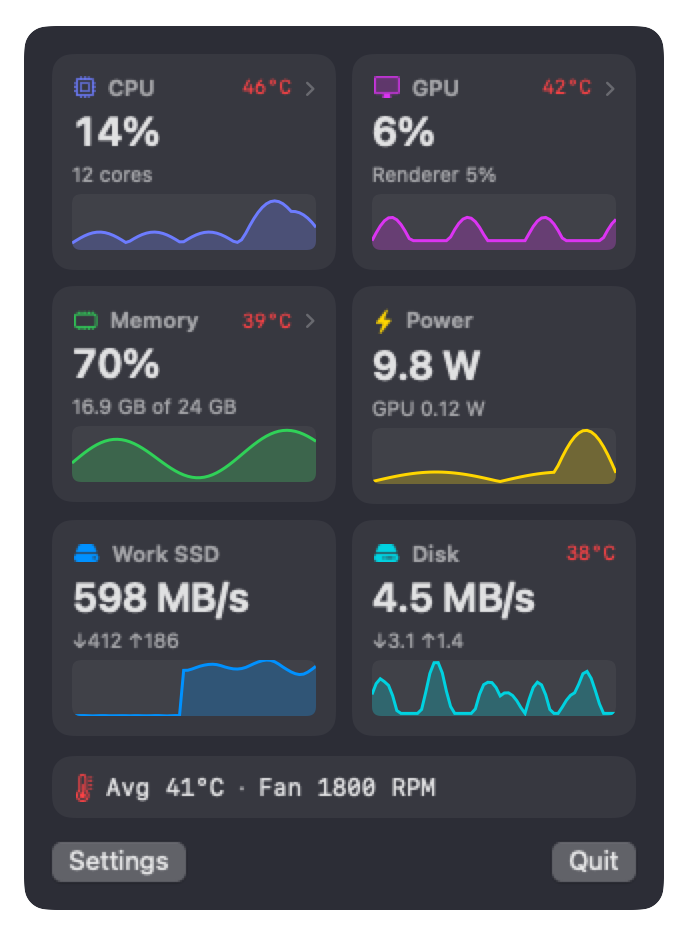
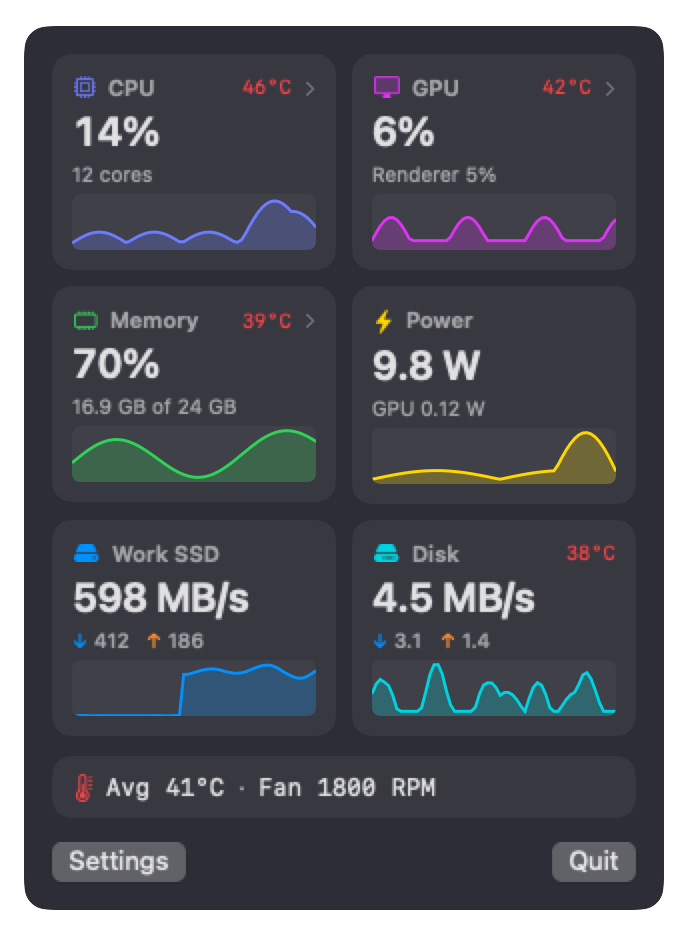
Graphs keep 10% headroom, GPU page shows power and memory, drive tiles use the menu bar's blue/orange arrows

diff --git a/Sources/SystemMonitorApp/PanelView.swift b/Sources/SystemMonitorApp/PanelView.swift
@@ -122,10 +122,10 @@ struct PanelView: View {
 
     private func percent(_ value: Double?) -> String { value.map { String(format: "%.0f%%", $0 * 100) } ?? "n/a" }
 
-    /// "↓412 ↑186": whole numbers once a speed is 10 MB/s or more.
-    private func rates(_ read: Double, _ write: Double) -> String {
+    /// Whole numbers once a speed is 10 MB/s or more ("412", "0.2").
+    private func rates(_ read: Double, _ write: Double) -> (read: String, write: String) {
         func f(_ v: Double) -> String { String(format: v >= 10 ? "%.0f" : "%.1f", v) }
-        return "↓\(f(read)) ↑\(f(write))"
+        return (f(read), f(write))
     }
 
     /// Read plus write as one number per sample, zoomed like the other tiles.
@@ -170,7 +170,7 @@ struct PanelView: View {
             return TileData(id: item, symbol: item.symbol,
                             name: drives.count == 1 ? first.label : "\(drives.count) drives", color: item.color,
                             big: Monitor.speed(monitor.externalRead + monitor.externalWrite),
-                            small: rates(monitor.externalRead, monitor.externalWrite),
+                            small: "", rates: rates(monitor.externalRead, monitor.externalWrite),
                             corner: nil, history: driveHistory(first))
         case .disk:
             guard let drive = monitor.internalDrive else {
@@ -179,7 +179,7 @@ struct PanelView: View {
             }
             return TileData(id: item, symbol: item.symbol, name: "Disk", color: item.color,
                             big: Monitor.speed(drive.readMBps + drive.writeMBps),
-                            small: rates(drive.readMBps, drive.writeMBps),
+                            small: "", rates: rates(drive.readMBps, drive.writeMBps),
                             corner: shownTemp(monitor.thermal?.ssdC), history: driveHistory(drive))
         case .thermal:
             return nil
@@ -339,6 +339,13 @@ struct PanelView: View {
                 box("Device", d?.device, monitor.gpuHistory)
                 box("Renderer", d?.renderer, monitor.gpuRendererHistory)
                 box("Tiler", d?.tiler, monitor.gpuTilerHistory)
+            }
+            LazyVGrid(columns: Array(repeating: GridItem(.flexible(), spacing: 5), count: 2), spacing: 5) {
+                MiniBox(title: "Power", value: monitor.power?.gpuWatts.map { String(format: "%.2f W", $0) } ?? "-",
+                        history: zoomed(monitor.gpuPowerHistory, minSpan: 0.5, floor: 0, padding: 0.1), color: .yellow)
+                MiniBox(title: "Memory", value: d?.memoryBytes.map { bytes(UInt64($0)) } ?? "-",
+                        history: zoomed(monitor.gpuMemoryHistory, minSpan: 50_000_000, floor: 0, padding: 10_000_000),
+                        color: .green)
             }
             if settings.showTemperatures, let sensors = monitor.thermal?.gpuSensorsC, !sensors.isEmpty {
                 HStack {

diff --git a/Sources/SystemMonitorApp/Monitor.swift b/Sources/SystemMonitorApp/Monitor.swift
@@ -20,6 +20,8 @@ struct MonitorState {
     var coreHistory: [[Double]] = []     // raw load per logical core, 0...1
     var gpuRendererHistory: [Double] = []
     var gpuTilerHistory: [Double] = []
+    var gpuPowerHistory: [Double] = []     // watts
+    var gpuMemoryHistory: [Double] = []    // bytes
     var gpuSensorHistory: [[Double]] = []   // one series per GPU temperature sensor, degrees C
     var allDrives: [DriveRate] = []
     var ramHistory: [Double] = []
@@ -86,6 +88,8 @@ final class Monitor: ObservableObject {
     var coreHistory: [[Double]] { state.coreHistory }
     var gpuRendererHistory: [Double] { state.gpuRendererHistory }
     var gpuTilerHistory: [Double] { state.gpuTilerHistory }
+    var gpuPowerHistory: [Double] { state.gpuPowerHistory }
+    var gpuMemoryHistory: [Double] { state.gpuMemoryHistory }
     var gpuSensorHistory: [[Double]] { state.gpuSensorHistory }
     var ramHistory: [Double] { state.ramHistory }
     var cpuHistory: [Double] { state.cpuHistory }
@@ -196,6 +200,8 @@ private final class Sampler {
                 state.gpu = state.gpuDetail?.device
                 push(&state.gpuRendererHistory, state.gpuDetail?.renderer)
                 push(&state.gpuTilerHistory, state.gpuDetail?.tiler)
+                push(&state.gpuPowerHistory, state.power?.gpuWatts)
+                push(&state.gpuMemoryHistory, state.gpuDetail?.memoryBytes)
             } else {
                 state.gpu = gpu.utilization()
                 clearGPUDetail()
@@ -204,10 +210,10 @@ private final class Sampler {
         } else {
             clearGPUDetail()
         }
-        if shown.contains(.power) {
+        if shown.contains(.power) || gpuDetail {   // the GPU page shows GPU power too
             if tickCount % 2 == 1 { state.power = power.snapshot() }   // heaviest read: every other tick
-            push(&state.powerHistory, state.power?.systemWatts)
         }
+        if shown.contains(.power) { push(&state.powerHistory, state.power?.systemWatts) }
         sampleThermal()
 
         let wantsDrives = shown.contains(.drives) || shown.contains(.disk)
@@ -238,6 +244,8 @@ private final class Sampler {
         state.gpuDetail = nil
         state.gpuRendererHistory = []
         state.gpuTilerHistory = []
+        state.gpuPowerHistory = []
+        state.gpuMemoryHistory = []
     }
 
     /// Light refresh used right after a detail view opens: cores, GPU detail and the thermal groups.

diff --git a/Sources/SystemMonitorApp/Tiles.swift b/Sources/SystemMonitorApp/Tiles.swift
@@ -8,6 +8,8 @@ struct TileData: Identifiable {
     let color: Color
     let big: String
     let small: String
+    /// For drives: read and write speeds, drawn with the menu bar's blue down and orange up arrows.
+    var rates: (read: String, write: String)?
     /// Top right corner: a temperature, or a warning such as memory pressure.
     var corner: String?
     var cornerColor: Color = .red
@@ -45,7 +47,21 @@ struct Tile: View {
             }
             Text(data.big).font(.system(size: 20, weight: .semibold)).monospacedDigit()
                 .lineLimit(1).minimumScaleFactor(0.7)
-            Text(data.small).font(.system(size: 10)).foregroundStyle(.secondary).lineLimit(1)
+            if let rates = data.rates {
+                HStack(spacing: 8) {
+                    HStack(spacing: 2) {
+                        Text("↓").foregroundStyle(Color(nsColor: .systemBlue))
+                        Text(rates.read).foregroundStyle(.secondary)
+                    }
+                    HStack(spacing: 2) {
+                        Text("↑").foregroundStyle(Color(nsColor: .systemOrange))
+                        Text(rates.write).foregroundStyle(.secondary)
+                    }
+                }
+                .font(.system(size: 10, weight: .medium)).lineLimit(1)
+            } else {
+                Text(data.small).font(.system(size: 10)).foregroundStyle(.secondary).lineLimit(1)
+            }
             HistoryChart(values: data.history, color: data.color).frame(height: 28)
         }
         .padding(10)

diff --git a/Sources/SystemMonitorCore/Series.swift b/Sources/SystemMonitorCore/Series.swift
@@ -2,13 +2,16 @@ import Foundation
 
 /// Maps a history to 0...1 over its own recent range, so a graph always shows detail: a 2% GPU spike
 /// and a steady 68% memory line are not squashed against an absolute 0...100% scale.
-/// - `padding` adds room above the highest and below the lowest value, so the line never touches the edges.
+/// - Headroom: the range is widened by `headroom` (10%) of the data range above and below, and by at
+///   least `padding`, so a spike never touches the top edge and looks like it is hitting a maximum.
 /// - `minSpan` keeps tiny wobbles from being blown up into noise: a flat line stays flat, centred.
 /// - `floor` stops the range going below a natural minimum (a load or speed cannot be negative).
-public func zoomed(_ values: [Double], minSpan: Double, floor: Double? = nil, padding: Double = 0) -> [Double] {
+public func zoomed(_ values: [Double], minSpan: Double, floor: Double? = nil, padding: Double = 0,
+                   headroom: Double = 0.10) -> [Double] {
     guard let hi = values.max(), let lo = values.min() else { return [] }
-    var bottom = lo - padding
-    var top = hi + padding
+    let margin = max(padding, headroom * (hi - lo))
+    var bottom = lo - margin
+    var top = hi + margin
     if let floor, bottom < floor { bottom = floor }
     if top - bottom < minSpan {
         // Too flat: widen around the middle, but never below the floor (extend upwards instead).

diff --git a/Tests/SystemMonitorCoreTests/CollectorTests.swift b/Tests/SystemMonitorCoreTests/CollectorTests.swift
@@ -180,7 +180,7 @@ final class CollectorTests: XCTestCase {
     }
 
     func testZoomedUsesTheRecentRangeAndKeepsOrder() {
-        let z = zoomed([0.02, 0.05, 0.40, 0.05], minSpan: 0.15, floor: 0)
+        let z = zoomed([0.02, 0.05, 0.40, 0.05], minSpan: 0.15, floor: 0, headroom: 0)
         XCTAssertEqual(z.min()!, 0, accuracy: 0.001)
         XCTAssertEqual(z.max()!, 1, accuracy: 0.001)
         XCTAssertTrue(z[2] > z[1] && z[1] > z[0])
@@ -209,5 +209,12 @@ final class CollectorTests: XCTestCase {
         let z = zoomed([40, 44], minSpan: 2, padding: 1)             // range 39...45
         XCTAssertEqual(z[0], 1.0 / 6, accuracy: 0.001)
         XCTAssertEqual(z[1], 5.0 / 6, accuracy: 0.001)
+    }
+
+    func testZoomedLeavesTenPercentHeadroomSoSpikesDoNotTouchTheTop() {
+        let z = zoomed([0.1, 0.1, 0.4, 0.1], minSpan: 0.05)          // range 0.1...0.4, headroom 0.03
+        XCTAssertTrue(z.max()! < 0.95, "max \(z.max()!)")           // not pinned to the top
+        XCTAssertTrue(z.min()! > 0.05, "min \(z.min()!)")           // nor to the bottom
+        XCTAssertEqual(z.max()!, (0.4 - 0.07) / 0.36, accuracy: 0.001)   // 0.917: 8% below the top
     }
 }

diff --git a/Sources/SystemMonitorApp/ScreenshotMode.swift b/Sources/SystemMonitorApp/ScreenshotMode.swift
@@ -68,10 +68,12 @@ enum ScreenshotMode {
                                     clusterC: [.superCore: 52, .performance: 47, .efficiency: 41],
                                     gpuSensorsC: [41, 42, 42, 41, 43, 42, 41, 42, 42, 43, 41, 42])
         s.coreUsage = [0.22, 0.18, 0.12, 0.09, 0.07, 0.05, 0.31, 0.24, 0.06, 0.04, 0.03, 0.02]
-        s.gpuDetail = GPUDetails(device: 0.06, renderer: 0.05, tiler: 0.02)
+        s.gpuDetail = GPUDetails(device: 0.06, renderer: 0.05, tiler: 0.02, memoryBytes: 236_000_000)
         s.coreHistory = s.coreUsage.enumerated().map { core, load in
             curve(60) { max(0, min(1, load * (0.5 + 1.0 * abs(sin($0 * (4 + Double(core)) + Double(core)))))) }
         }
+        s.gpuPowerHistory = curve(60) { 0.05 + 0.12 * max(0, sin($0 * 15)) }
+        s.gpuMemoryHistory = curve(60) { 200_000_000 + 40_000_000 * sin($0 * 5) }
         s.gpuRendererHistory = curve(60) { 0.02 + 0.05 * max(0, sin($0 * 17)) }
         s.gpuTilerHistory = curve(60) { 0.01 + 0.03 * max(0, sin($0 * 13 + 1)) }
         s.gpuSensorHistory = (0..<12).map { i in curve(30) { 41 + 1.5 * sin($0 * 6 + Double(i)) + 0.8 * Double(i % 3) } }

diff --git a/Sources/SystemMonitorCore/GPUCollector.swift b/Sources/SystemMonitorCore/GPUCollector.swift
@@ -7,11 +7,14 @@ public struct GPUDetails: Equatable {
     public let device: Double
     public let renderer: Double
     public let tiler: Double
+    /// Memory the GPU is using, in bytes (shared with the CPU on Apple Silicon). nil if not reported.
+    public let memoryBytes: Double?
 
-    public init(device: Double, renderer: Double, tiler: Double) {
+    public init(device: Double, renderer: Double, tiler: Double, memoryBytes: Double? = nil) {
         self.device = device
         self.renderer = renderer
         self.tiler = tiler
+        self.memoryBytes = memoryBytes
     }
 }
 
@@ -62,7 +65,8 @@ public final class GPUCollector {
             else { continue }
             return GPUDetails(device: device,
                               renderer: Self.fraction(stats, "Renderer Utilization %") ?? 0,
-                              tiler: Self.fraction(stats, "Tiler Utilization %") ?? 0)
+                              tiler: Self.fraction(stats, "Tiler Utilization %") ?? 0,
+                              memoryBytes: (stats["In use system memory"] as? NSNumber)?.doubleValue)
         }
         return nil
     }
